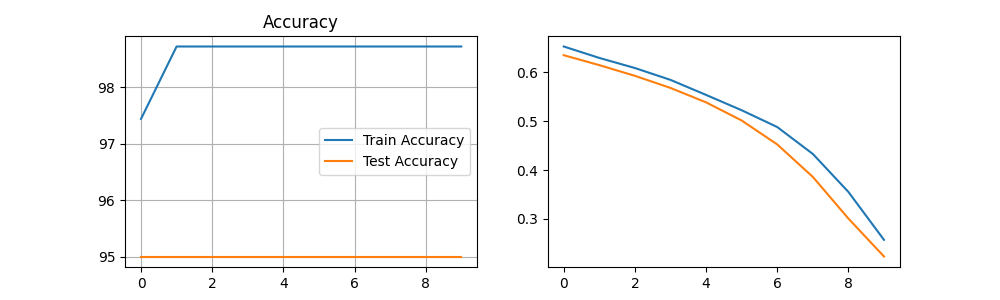
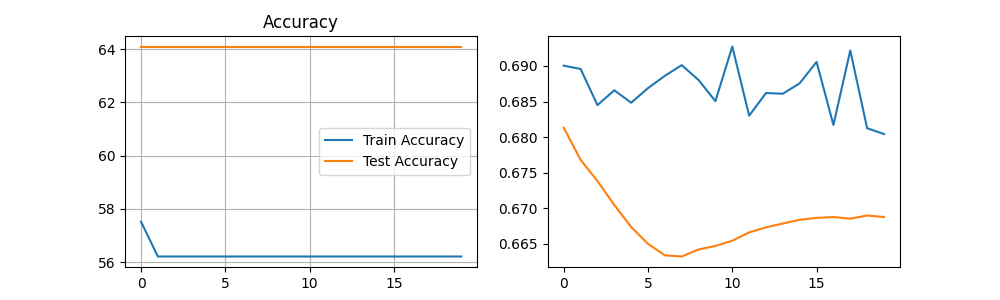
modified:   app.py 	modified:   static/HTML/images/LSTM_test_acc.png 	modified:   static/HTML/images/LSTM_train_acc.png 	new file:   static/HTML/images/NIA.jpg 	modified:   templates/NewDataset.html 	modified:   templates/index.html 	deleted:    templates/index1.html

diff --git a/templates/NewDataset.html b/templates/NewDataset.html
@@ -1,4 +1,3 @@
-
 <html>
     <head>
             <meta charset="UTF-8">
@@ -67,11 +66,7 @@
         </div>
         </div>
         <div class="col-12">
-         
-
-        
             <div class="card">
-              
               <div class="card-header"><h6>Image Upload</h6></div>
                 <div class="card-body col"> 
                  <!-- Select Brand -->
@@ -83,7 +78,6 @@
                           <option value="{{optionvalue}}">{{optionvalue}}</option>
                         {% endfor %}
                     </select>
-                    <div class="12">selected brand: {{selectbrand}}</div>
                   </form>
                 </div>
                 <!-- End Select Brand -->
@@ -96,7 +90,6 @@
                       <option value="{{optionvalue}}">{{optionvalue}}</option>
                       {% endfor %}
                     </select>
-                    <div class="12">selected type: {{selectedtype}}</div>
                   </form>
                 </div>
                 <!-- End Select Type -->
@@ -109,18 +102,17 @@
                         <option value="{{optionvalue}}">{{optionvalue}}</option>
                         {% endfor %}
                       </select>
-                      <div class="12">selected type: {{selectedmodel}}</div>
                   </form>
                 </div>
                 <!-- End Select Model -->
+                <div>{{selectbrand}} {{selectedtype}} {{selectedmodel}}
                 <form name="imgURLUpload" action="/imgURLUpload" method="POST">
                   <div class="cust_uploadfile" id="cust_drop-area-container">
                       <label for="cust_input-file" id="cust_drop-area">
                           <div id="cust_image-preview"></div>
                       </label>
                     </div>
-                  <div>{{selectbrand}} {{selectedtype}} {{selectedmodel}}
-                  <input type="text" id="cust_url-display" name="txturldisplay1" size="100">
+                  <input type="text" id="cust_url-display" name="txturldisplay1" size="100" hidden>
                   <input type="submit" value="Upload Image and details">  
                  </div> 
                </form>  

diff --git a/templates/index.html b/templates/index.html
@@ -91,8 +91,8 @@
           <div class="col-12">
             <div class="card">Extra Panel for other objects
                 <div class="card-body col"> 
-                  <h6 class="card-title">Actual Product Image/s of your selected device. erated via</h6>
-                    <img src = {{dev_images}} class="card-card-img-bottom img-fluid">    
+                  <h6 class="card-title">Actual Product Image/s of your selected device</h6>
+                    <img src={{dev_images}} class="card-card-img-bottom img-fluid" style="width: 250px; height: 250px">    
                 </div>
             </div>
           </div>

diff --git a/app.py b/app.py
@@ -219,11 +219,15 @@ def sub_OpenAI(model, type, brand):
     cursor = mydb.cursor()
     cursor.execute("SELECT Path FROM image_paths where model='" + model + "' and type='"+type+ "' and brand='"+brand+"'")
     img_result = cursor.fetchone()
+    if img_result is None:
+        fetch_img_result = "/static/HTML/images/NIA.jpg"
+    else:
+        fetch_img_result = img_result[0]
     cursor.close()
     # img_result[0]
     # for x in img_result:
     #     print(x)
-    return img_result[0]
+    return fetch_img_result
         
 def sub_datacleaning(temp_df):
         lemmatizer = WordNetLemmatizer()
@@ -371,7 +375,7 @@ def sub_LSTM(temp_df):
     embedding_size = 50
     SEQUENCE_LENGTH = 50
     batch_size = 100
-    epochs = 10
+    epochs = 20
 
     #Tokenize all words in the dataframe
     temp_df["Reviews"] = temp_df["Reviews"].apply(word_tokenize)
